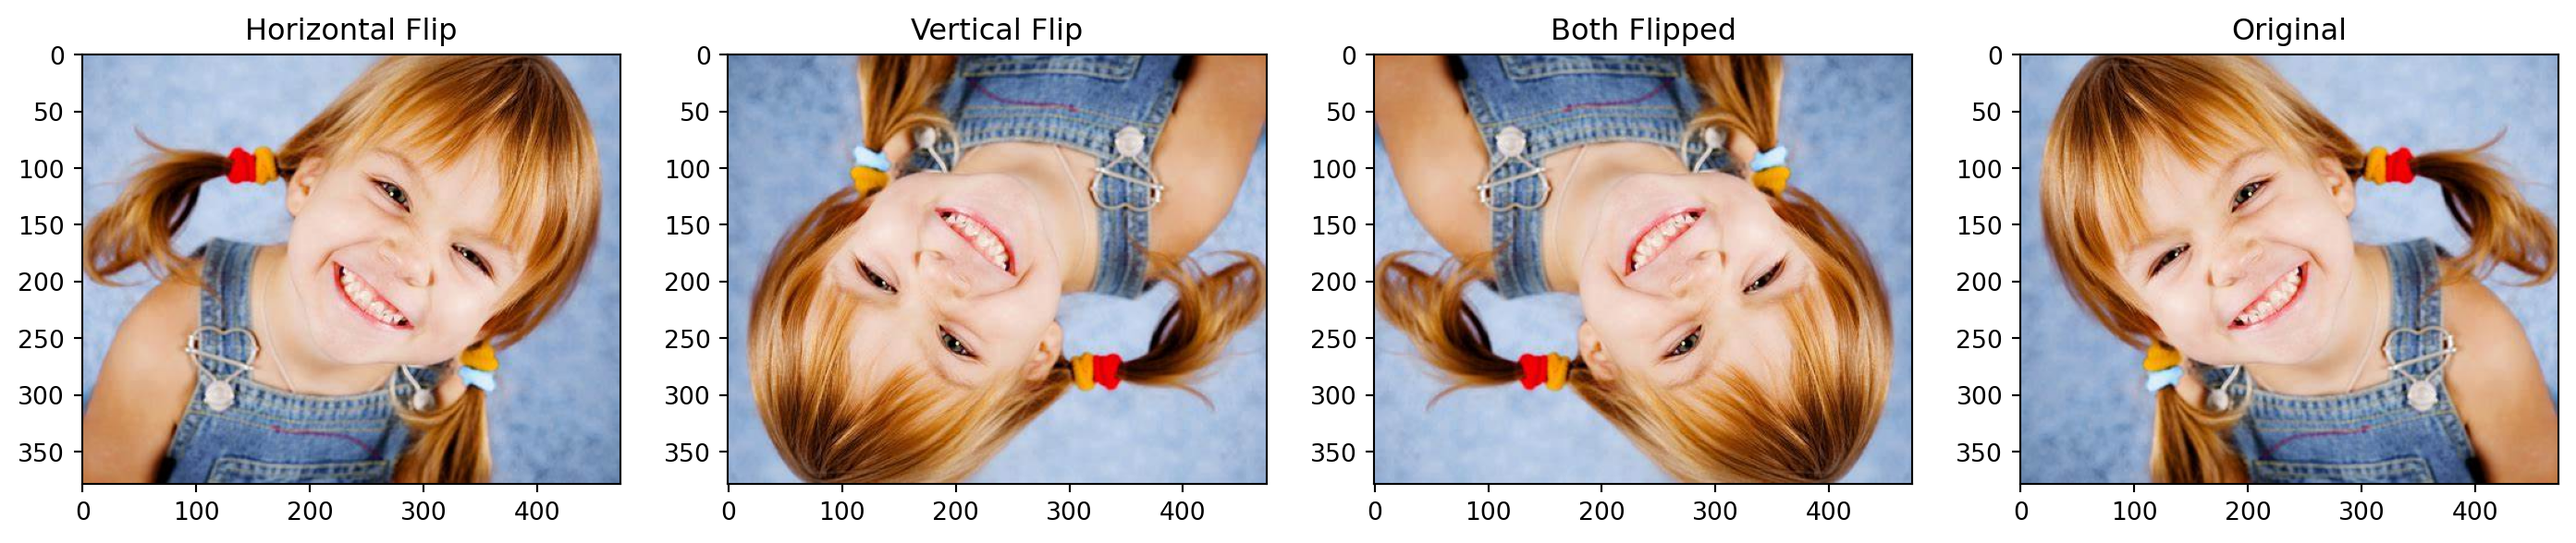
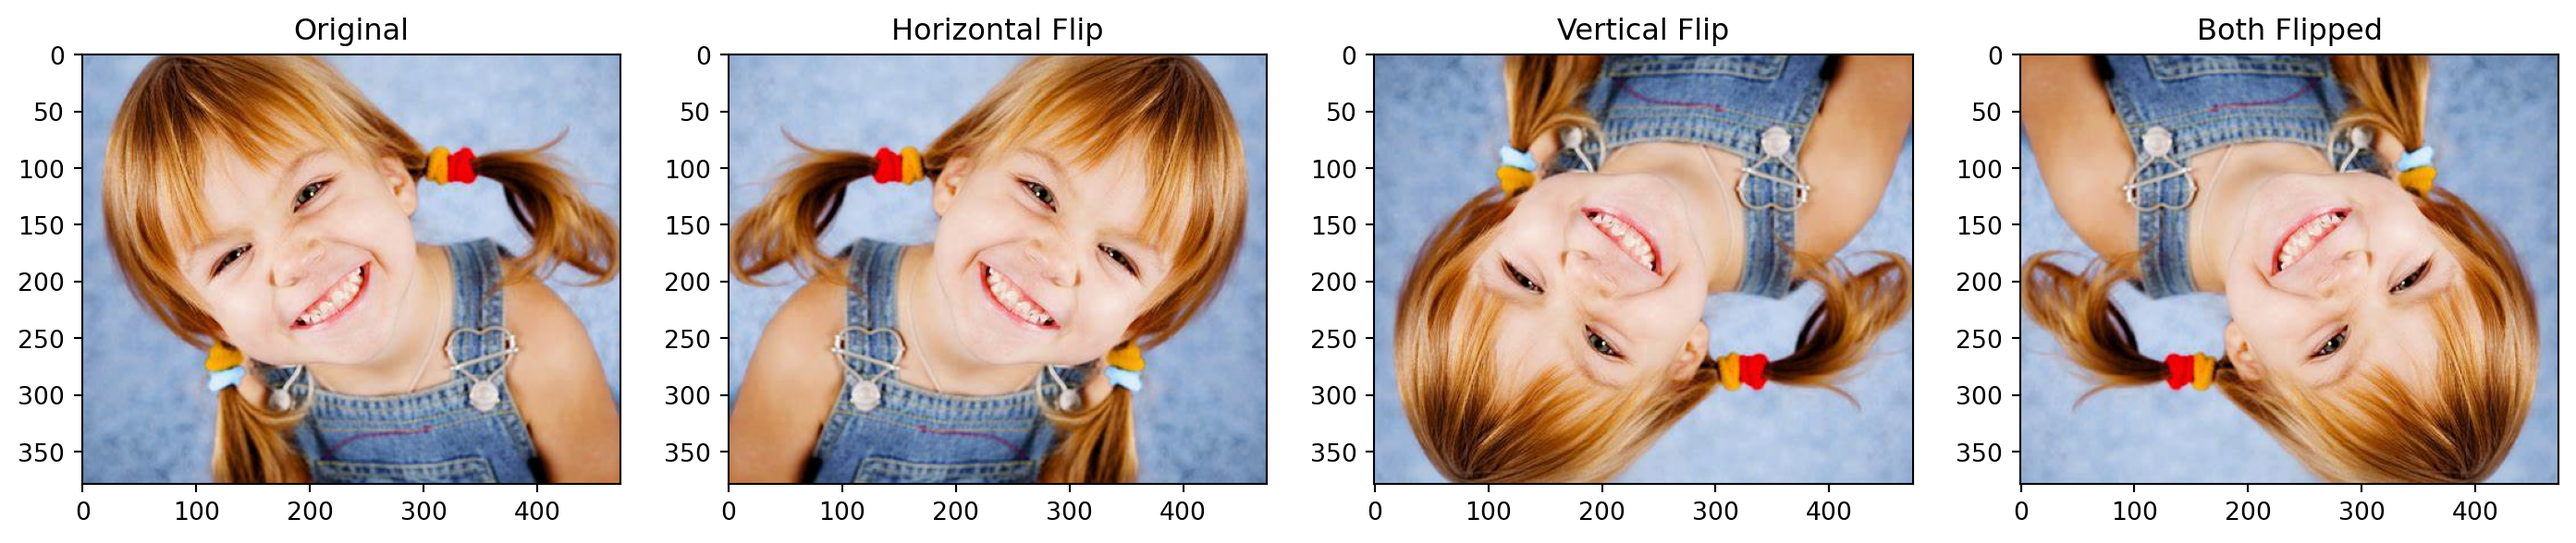
edit open-cv post

diff --git a/docs/posts/open-cv/open-cv.html b/docs/posts/open-cv/open-cv.html
@@ -109,7 +109,7 @@ pre > code.sourceCode > span > a:first-child::before { text-decoration: underlin
 <link rel="stylesheet" href="../../styles.css">
 </head>
 
-<body class="nav-fixed fullcontent">
+<body class="nav-fixed">
 
 <div id="quarto-search-results"></div>
   <header id="quarto-header" class="headroom fixed-top quarto-banner">
@@ -126,10 +126,6 @@ pre > code.sourceCode > span > a:first-child::before { text-decoration: underlin
 </button>
           <div class="collapse navbar-collapse" id="navbarCollapse">
             <ul class="navbar-nav navbar-nav-scroll ms-auto">
-  <li class="nav-item">
-    <a class="nav-link" href="../../blog_posts.html"> 
-<span class="menu-text">Blog Posts</span></a>
-  </li>  
   <li class="nav-item">
     <a class="nav-link" href="../../about.html"> 
 <span class="menu-text">About</span></a>
@@ -162,8 +158,7 @@ pre > code.sourceCode > span > a:first-child::before { text-decoration: underlin
     <div class="quarto-title column-body">
       <h1 class="title">OpenCV</h1>
                                 <div class="quarto-categories">
-                <div class="quarto-category">openCV</div>
-                <div class="quarto-category">Deep Learning</div>
+                <div class="quarto-category">deep learning</div>
               </div>
                   </div>
   </div>
@@ -192,7 +187,24 @@ pre > code.sourceCode > span > a:first-child::before { text-decoration: underlin
   </header><div id="quarto-content" class="quarto-container page-columns page-rows-contents page-layout-article page-navbar">
 <!-- sidebar -->
 <!-- margin-sidebar -->
-    
+    <div id="quarto-margin-sidebar" class="sidebar margin-sidebar">
+        <nav id="TOC" role="doc-toc" class="toc-active">
+    <h2 id="toc-title">On this page</h2>
+   
+  <ul>
+  <li><a href="#installation" id="toc-installation" class="nav-link active" data-scroll-target="#installation">Installation:</a></li>
+  <li><a href="#basic-operations" id="toc-basic-operations" class="nav-link" data-scroll-target="#basic-operations">Basic Operations</a>
+  <ul class="collapse">
+  <li><a href="#reading-and-displaying-image" id="toc-reading-and-displaying-image" class="nav-link" data-scroll-target="#reading-and-displaying-image">1. Reading and displaying image</a></li>
+  <li><a href="#writing-image" id="toc-writing-image" class="nav-link" data-scroll-target="#writing-image">2. Writing image</a></li>
+  <li><a href="#coverting-color-spaces" id="toc-coverting-color-spaces" class="nav-link" data-scroll-target="#coverting-color-spaces">3. Coverting color spaces</a></li>
+  <li><a href="#resizing-and-cropping-images" id="toc-resizing-and-cropping-images" class="nav-link" data-scroll-target="#resizing-and-cropping-images">4. Resizing and Cropping Images</a></li>
+  <li><a href="#flipping-images" id="toc-flipping-images" class="nav-link" data-scroll-target="#flipping-images">5. Flipping Images</a></li>
+  <li><a href="#reading-and-displaying-videos" id="toc-reading-and-displaying-videos" class="nav-link" data-scroll-target="#reading-and-displaying-videos">6. Reading and Displaying Videos</a></li>
+  </ul></li>
+  </ul>
+</nav>
+    </div>
 <!-- main -->
 <main class="content quarto-banner-title-block" id="quarto-document-content">
 
@@ -200,7 +212,7 @@ pre > code.sourceCode > span > a:first-child::before { text-decoration: underlin
 
 
 
-<p>OpenCV (Open Source Computer Vision Library) is an open-source computer vision and machine learning software library. It provides a wide range of functionalities for image and video processing.</p>
+<p>OpenCV is an open-source computer vision and machine learning software library. It provides a wide range of functionalities for image and video processing.</p>
 <p>Here’s a crash course on using OpenCV in Python.</p>
 <section id="installation" class="level2">
 <h2 class="anchored" data-anchor-id="installation">Installation:</h2>
@@ -210,16 +222,20 @@ pre > code.sourceCode > span > a:first-child::before { text-decoration: underlin
 <h2 class="anchored" data-anchor-id="basic-operations">Basic Operations</h2>
 <section id="reading-and-displaying-image" class="level3">
 <h3 class="anchored" data-anchor-id="reading-and-displaying-image">1. Reading and displaying image</h3>
-<div class="sourceCode" id="cb1"><pre class="sourceCode python code-with-copy"><code class="sourceCode python"><span id="cb1-1"><a href="#cb1-1" aria-hidden="true" tabindex="-1"></a><span class="im">import</span> cv2</span>
-<span id="cb1-2"><a href="#cb1-2" aria-hidden="true" tabindex="-1"></a><span class="co"># Read an image from file</span></span>
-<span id="cb1-3"><a href="#cb1-3" aria-hidden="true" tabindex="-1"></a>image <span class="op">=</span> cv2.imread(<span class="st">'image.jpg'</span>)</span>
-<span id="cb1-4"><a href="#cb1-4" aria-hidden="true" tabindex="-1"></a></span>
-<span id="cb1-5"><a href="#cb1-5" aria-hidden="true" tabindex="-1"></a><span class="co"># Display the image in a window</span></span>
-<span id="cb1-6"><a href="#cb1-6" aria-hidden="true" tabindex="-1"></a>cv2.imshow(<span class="st">'Image'</span>, image)</span>
+<p>We can read an image by using <code>imread</code> in cv2 library. Then show image element using <code>imshow</code>.</p>
+<div class="sourceCode" id="cb1"><pre class="sourceCode python code-with-copy"><code class="sourceCode python"><span id="cb1-1"><a href="#cb1-1" aria-hidden="true" tabindex="-1"></a><span class="co">#| label: cv-output</span></span>
+<span id="cb1-2"><a href="#cb1-2" aria-hidden="true" tabindex="-1"></a><span class="co">#| fig-cap: Show an image using imshow() </span></span>
+<span id="cb1-3"><a href="#cb1-3" aria-hidden="true" tabindex="-1"></a></span>
+<span id="cb1-4"><a href="#cb1-4" aria-hidden="true" tabindex="-1"></a><span class="im">import</span> cv2</span>
+<span id="cb1-5"><a href="#cb1-5" aria-hidden="true" tabindex="-1"></a><span class="co"># Read an image from file</span></span>
+<span id="cb1-6"><a href="#cb1-6" aria-hidden="true" tabindex="-1"></a>image <span class="op">=</span> cv2.imread(<span class="st">'image.jpg'</span>)</span>
 <span id="cb1-7"><a href="#cb1-7" aria-hidden="true" tabindex="-1"></a></span>
-<span id="cb1-8"><a href="#cb1-8" aria-hidden="true" tabindex="-1"></a><span class="co"># Wait for a key press and then close the window</span></span>
-<span id="cb1-9"><a href="#cb1-9" aria-hidden="true" tabindex="-1"></a>cv2.waitKey(<span class="dv">0</span>)</span>
-<span id="cb1-10"><a href="#cb1-10" aria-hidden="true" tabindex="-1"></a>cv2.destroyAllWindows()</span></code><button title="Copy to Clipboard" class="code-copy-button"><i class="bi"></i></button></pre></div>
+<span id="cb1-8"><a href="#cb1-8" aria-hidden="true" tabindex="-1"></a><span class="co"># Display the image in a window</span></span>
+<span id="cb1-9"><a href="#cb1-9" aria-hidden="true" tabindex="-1"></a>cv2.imshow(<span class="st">'Image'</span>, image)</span>
+<span id="cb1-10"><a href="#cb1-10" aria-hidden="true" tabindex="-1"></a></span>
+<span id="cb1-11"><a href="#cb1-11" aria-hidden="true" tabindex="-1"></a><span class="co"># Wait for a key press and then close the window</span></span>
+<span id="cb1-12"><a href="#cb1-12" aria-hidden="true" tabindex="-1"></a>cv2.waitKey(<span class="dv">0</span>)</span>
+<span id="cb1-13"><a href="#cb1-13" aria-hidden="true" tabindex="-1"></a>cv2.destroyAllWindows()</span></code><button title="Copy to Clipboard" class="code-copy-button"><i class="bi"></i></button></pre></div>
 <div class="quarto-figure quarto-figure-center">
 <figure class="figure">
 <p><img src="image.jpg" class="img-fluid figure-img" style="width:30.0%"></p>
@@ -325,10 +341,10 @@ pre > code.sourceCode > span > a:first-child::before { text-decoration: underlin
 <p>The function flip flips the array in one of three different ways (row and column indices are 0-based): <code>dst = cv.flip( src, flipCode )</code> <code>dst</code>: output array of the same size and type as src.</p>
 <p>The function has 2 required arguments:</p>
 <ul>
-<li>src: input image</li>
-<li>flipCode: a flag to specify how to flip the array; 0 means flipping around the x-axis and positive value (for example, 1) means flipping around y-axis. Negative value (for example, -1) means flipping around both axes.</li>
+<li><code>src</code>: input image</li>
+<li><code>flipCode</code>: a flag to specify how to flip the array; 0 means flipping around the x-axis and positive value (for example, 1) means flipping around y-axis. Negative value (for example, -1) means flipping around both axes.</li>
 </ul>
-<div id="5d751c78" class="cell" data-execution_count="1">
+<div id="0bbf05e3" class="cell" data-execution_count="1">
 <div class="sourceCode cell-code" id="cb5"><pre class="sourceCode python code-with-copy"><code class="sourceCode python"><span id="cb5-1"><a href="#cb5-1" aria-hidden="true" tabindex="-1"></a><span class="im">import</span> cv2</span>
 <span id="cb5-2"><a href="#cb5-2" aria-hidden="true" tabindex="-1"></a><span class="im">import</span> matplotlib.pyplot <span class="im">as</span> plt</span>
 <span id="cb5-3"><a href="#cb5-3" aria-hidden="true" tabindex="-1"></a></span>
@@ -342,17 +358,17 @@ pre > code.sourceCode > span > a:first-child::before { text-decoration: underlin
 <span id="cb5-11"><a href="#cb5-11" aria-hidden="true" tabindex="-1"></a><span class="co"># Show the images</span></span>
 <span id="cb5-12"><a href="#cb5-12" aria-hidden="true" tabindex="-1"></a>plt.figure(figsize<span class="op">=</span>(<span class="dv">18</span>, <span class="dv">5</span>))</span>
 <span id="cb5-13"><a href="#cb5-13" aria-hidden="true" tabindex="-1"></a>plt.subplot(<span class="dv">141</span>) <span class="co"># 141 : 1 row, 4 columns, current index of subplot</span></span>
-<span id="cb5-14"><a href="#cb5-14" aria-hidden="true" tabindex="-1"></a>plt.imshow(img_rgb_flipped_horz)</span>
-<span id="cb5-15"><a href="#cb5-15" aria-hidden="true" tabindex="-1"></a>plt.title(<span class="st">"Horizontal Flip"</span>)</span>
-<span id="cb5-16"><a href="#cb5-16" aria-hidden="true" tabindex="-1"></a>plt.subplot(<span class="dv">142</span>)</span>
-<span id="cb5-17"><a href="#cb5-17" aria-hidden="true" tabindex="-1"></a>plt.imshow(img_rgb_flipped_vert)</span>
-<span id="cb5-18"><a href="#cb5-18" aria-hidden="true" tabindex="-1"></a>plt.title(<span class="st">"Vertical Flip"</span>)</span>
+<span id="cb5-14"><a href="#cb5-14" aria-hidden="true" tabindex="-1"></a>plt.imshow(img_rgb)</span>
+<span id="cb5-15"><a href="#cb5-15" aria-hidden="true" tabindex="-1"></a>plt.title(<span class="st">"Original"</span>)</span>
+<span id="cb5-16"><a href="#cb5-16" aria-hidden="true" tabindex="-1"></a>plt.subplot(<span class="dv">142</span>) </span>
+<span id="cb5-17"><a href="#cb5-17" aria-hidden="true" tabindex="-1"></a>plt.imshow(img_rgb_flipped_horz)</span>
+<span id="cb5-18"><a href="#cb5-18" aria-hidden="true" tabindex="-1"></a>plt.title(<span class="st">"Horizontal Flip"</span>)</span>
 <span id="cb5-19"><a href="#cb5-19" aria-hidden="true" tabindex="-1"></a>plt.subplot(<span class="dv">143</span>)</span>
-<span id="cb5-20"><a href="#cb5-20" aria-hidden="true" tabindex="-1"></a>plt.imshow(img_rgb_flipped_both)</span>
-<span id="cb5-21"><a href="#cb5-21" aria-hidden="true" tabindex="-1"></a>plt.title(<span class="st">"Both Flipped"</span>)</span>
+<span id="cb5-20"><a href="#cb5-20" aria-hidden="true" tabindex="-1"></a>plt.imshow(img_rgb_flipped_vert)</span>
+<span id="cb5-21"><a href="#cb5-21" aria-hidden="true" tabindex="-1"></a>plt.title(<span class="st">"Vertical Flip"</span>)</span>
 <span id="cb5-22"><a href="#cb5-22" aria-hidden="true" tabindex="-1"></a>plt.subplot(<span class="dv">144</span>)</span>
-<span id="cb5-23"><a href="#cb5-23" aria-hidden="true" tabindex="-1"></a>plt.imshow(img_rgb)</span>
-<span id="cb5-24"><a href="#cb5-24" aria-hidden="true" tabindex="-1"></a>plt.title(<span class="st">"Original"</span>)</span>
+<span id="cb5-23"><a href="#cb5-23" aria-hidden="true" tabindex="-1"></a>plt.imshow(img_rgb_flipped_both)</span>
+<span id="cb5-24"><a href="#cb5-24" aria-hidden="true" tabindex="-1"></a>plt.title(<span class="st">"Both Flipped"</span>)</span>
 <span id="cb5-25"><a href="#cb5-25" aria-hidden="true" tabindex="-1"></a>plt.show()</span></code><button title="Copy to Clipboard" class="code-copy-button"><i class="bi"></i></button></pre></div>
 <div class="cell-output cell-output-display">
 <div>

diff --git a/docs/index.html b/docs/index.html
@@ -512,7 +512,7 @@ Samith Va
 </a>
 </div>
 </div>
-<div class="quarto-post image-right" data-index="9" data-categories="deep learning" data-listing-date-sort="1711123200000" data-listing-file-modified-sort="1711712608082" data-listing-date-modified-sort="NaN" data-listing-reading-time-sort="3" data-listing-word-count-sort="427">
+<div class="quarto-post image-right" data-index="9" data-categories="deep learning" data-listing-date-sort="1711123200000" data-listing-file-modified-sort="1716606172877" data-listing-date-modified-sort="NaN" data-listing-reading-time-sort="3" data-listing-word-count-sort="448">
 <div class="thumbnail">
 <p><a href="./posts/open-cv/open-cv.html" class="no-external"></a></p><a href="./posts/open-cv/open-cv.html" class="no-external">
 <p class="card-img-top"><img src="posts\open-cv\image.jpg"  class="thumbnail-image card-img"/></p>
@@ -531,7 +531,7 @@ deep learning
 </div>
 </div>
 <div class="listing-description">
-<a href="./posts/open-cv/open-cv.html" class="no-external">OpenCV (Open Source Computer Vision Library) is an open-source computer vision and machine learning software library. It provides a wide range of functionalities for image…</a>
+<a href="./posts/open-cv/open-cv.html" class="no-external">OpenCV is an open-source computer vision and machine learning software library. It provides a wide range of functionalities for image and video processing.</a>
 </div>
 </div>
 <div class="metadata">
